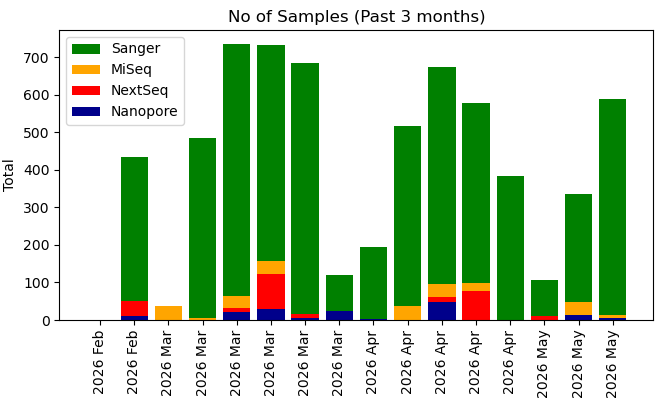
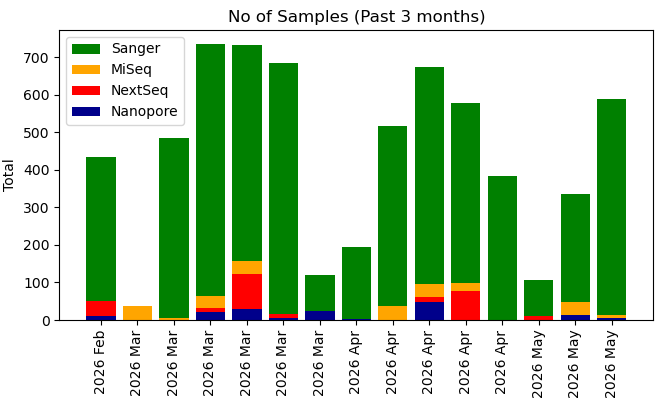
Your commit message here

Changed region(s): [[0.1212, 0.09, 0.9091, 1.0], [0.9091, 0.81, 0.9394, 1.0]]

diff --git a/krona/cgs.html b/krona/cgs.html
@@ -52,8 +52,8 @@ body {
   flex-direction: column;
 }
 </style>
-<H1>Genomics Facility Status: 07:00:23, 18/05/2026</H1>
-<marquee behavior="scroll" scrollamount="20" direction="left" bgcolor="lightgrey">GCGCATAAATTTGAGCAGATTTGTCGTCACAGGTTGCGCCGCCAAAACGTCGGCTACAGTAACTTTTCCCAGCCTCAATCTCATCTCTCTTTTTGCGTTCTGCTTCAATATCTGGTTGAACGGCGTCGCGTCGTAACCCAGCTTGGTAAGTTGGATTAAGCACTCCGAGATCGGAAGAGCGGTTCAGCAGGAATGCCGAGACCGATCTCGTATGCCGTCTTCTGCTTGAAAAAAAAAAACAATAAGAGAA</marquee>
+<H1>Genomics Facility Status: 07:00:13, 19/05/2026</H1>
+<marquee behavior="scroll" scrollamount="20" direction="left" bgcolor="lightgrey">TATGTTTACTCTTGCGCTTGTTCGTTTTCCGCCTACTGCGACTAAAGAGATTCAGTACCTTAACGCTAAAGGTGCTTTGACTTATACCGATATTGCTGGCGACCCTGTTTTGTATGGCAACTTGCCGCCGCGTGAAATTTCTATGAAGGATGTTTTCCGTTCTGGTGATTCGTCTAAGAAGTTTAAGATTGCTGAGGGTCAGTGGTATCGTTATGCGCCTTCGTATGTTTCTCCTGCTTATCACCTTCTTG</marquee>
 <TABLE BORDER=0><TR><TD><TABLE class="styled-table"><H3>GigaBases Sequenced</H3>
-<TR><TD><b>Platform</b></TD><TD><b>Week</b></TD><TD><b>Month</b></TD><TD><b>Year</b></TD><TD><b>Total</b></TD></TR><TR><TD>Illumina MiSeq</TD><TD>1.3</TD><TD>35.42</TD><TD>355.08</TD><TD>560.44</TD></TR><TR><TD>Illumina NextSeq</TD><TD>0.0</TD><TD>182.4</TD><TD>4178.24</TD><TD>6646.34</TD></TR><TR><TD>Nanopore PromethION</TD><TD>412.97</TD><TD>639.37</TD><TD>7939.7</TD><TD>12629.3</TD></TR><TR><TD>Sanger</TD><TD>0.0</TD><TD>0.0</TD><TD>0.02</TD><TD>0.05</TD></TR></TABLE></TD><TD><IMG SRC="fig1.png"><IMG SRC="fig2.png"></TD></TR><TR><TD><H3>No. Samples (No. Experiments)</H3>
-<TABLE class="styled-table"><TR><TD><b>Platform</b></TD><TD><b>Week</b></TD><TD><b>Month</b></TD><TD><b>Year</b></TD><TD><b>Total</b></TD></TR><TR><TD>Illumina MiSeq</TD><TD>8 (1)</TD><TD>100 (6)</TD><TD>1426 (71)</TD><TD>2474 (100)</TD></TR><TR><TD>Illumina NextSeq</TD><TD>0 (0)</TD><TD>101 (4)</TD><TD>1358 (62)</TD><TD>2186 (87)</TD></TR><TR><TD>Nanopore PromethION</TD><TD>6 (5)</TD><TD>48 (11)</TD><TD>601 (195)</TD><TD>1008 (350)</TD></TR><TR><TD>Sanger</TD><TD>576 (576)</TD><TD>2208 (2208)</TD><TD>21115 (21115)</TD><TD>45186 (45186)</TD></TR></TABLE></TD><TD><IMG SRC="fig4.png"></TD></TR></TABLE></HTML>
+<TR><TD><b>Platform</b></TD><TD><b>Week</b></TD><TD><b>Month</b></TD><TD><b>Year</b></TD><TD><b>Total</b></TD></TR><TR><TD>Illumina MiSeq</TD><TD>1.3</TD><TD>35.42</TD><TD>355.08</TD><TD>560.44</TD></TR><TR><TD>Illumina NextSeq</TD><TD>0.0</TD><TD>104.35</TD><TD>4036.81</TD><TD>6646.34</TD></TR><TR><TD>Nanopore PromethION</TD><TD>412.97</TD><TD>638.67</TD><TD>7939.7</TD><TD>12629.3</TD></TR><TR><TD>Sanger</TD><TD>0.0</TD><TD>0.0</TD><TD>0.02</TD><TD>0.05</TD></TR></TABLE></TD><TD><IMG SRC="fig1.png"><IMG SRC="fig2.png"></TD></TR><TR><TD><H3>No. Samples (No. Experiments)</H3>
+<TABLE class="styled-table"><TR><TD><b>Platform</b></TD><TD><b>Week</b></TD><TD><b>Month</b></TD><TD><b>Year</b></TD><TD><b>Total</b></TD></TR><TR><TD>Illumina MiSeq</TD><TD>8 (1)</TD><TD>100 (6)</TD><TD>1426 (71)</TD><TD>2474 (100)</TD></TR><TR><TD>Illumina NextSeq</TD><TD>0 (0)</TD><TD>89 (3)</TD><TD>1304 (61)</TD><TD>2186 (87)</TD></TR><TR><TD>Nanopore PromethION</TD><TD>6 (5)</TD><TD>47 (10)</TD><TD>601 (195)</TD><TD>1008 (350)</TD></TR><TR><TD>Sanger</TD><TD>576 (576)</TD><TD>2016 (2016)</TD><TD>21115 (21115)</TD><TD>45186 (45186)</TD></TR></TABLE></TD><TD><IMG SRC="fig4.png"></TD></TR></TABLE></HTML>
